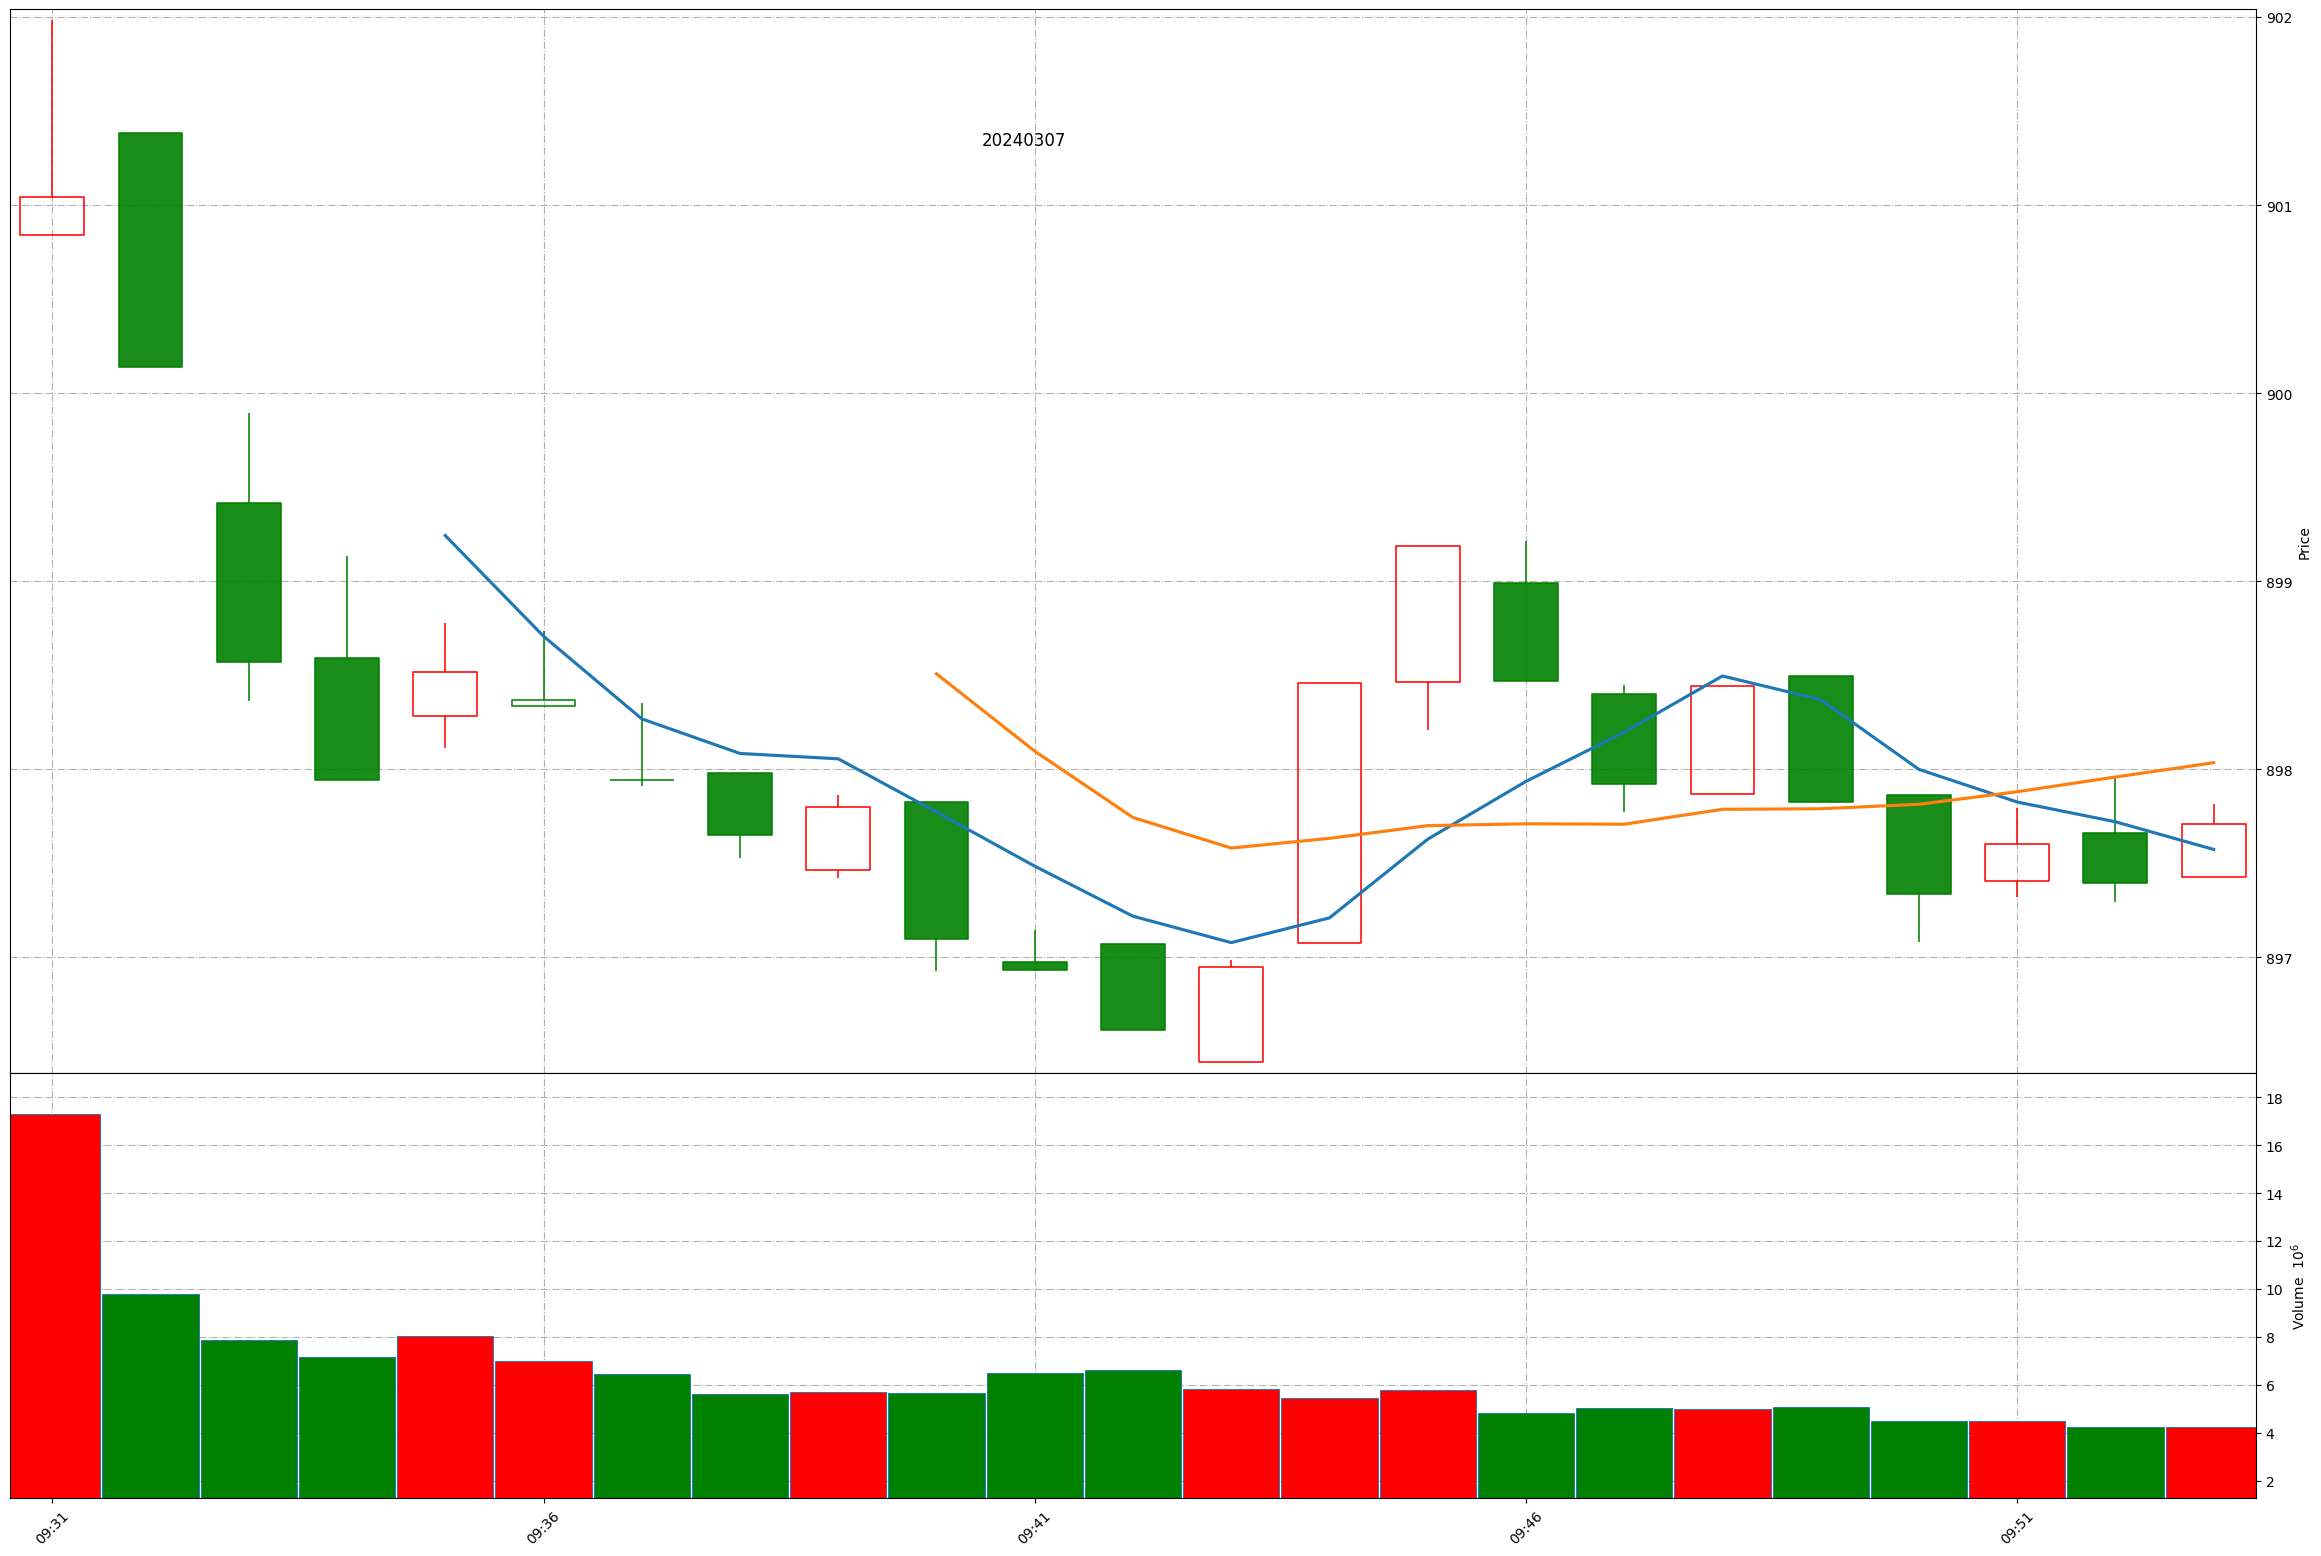
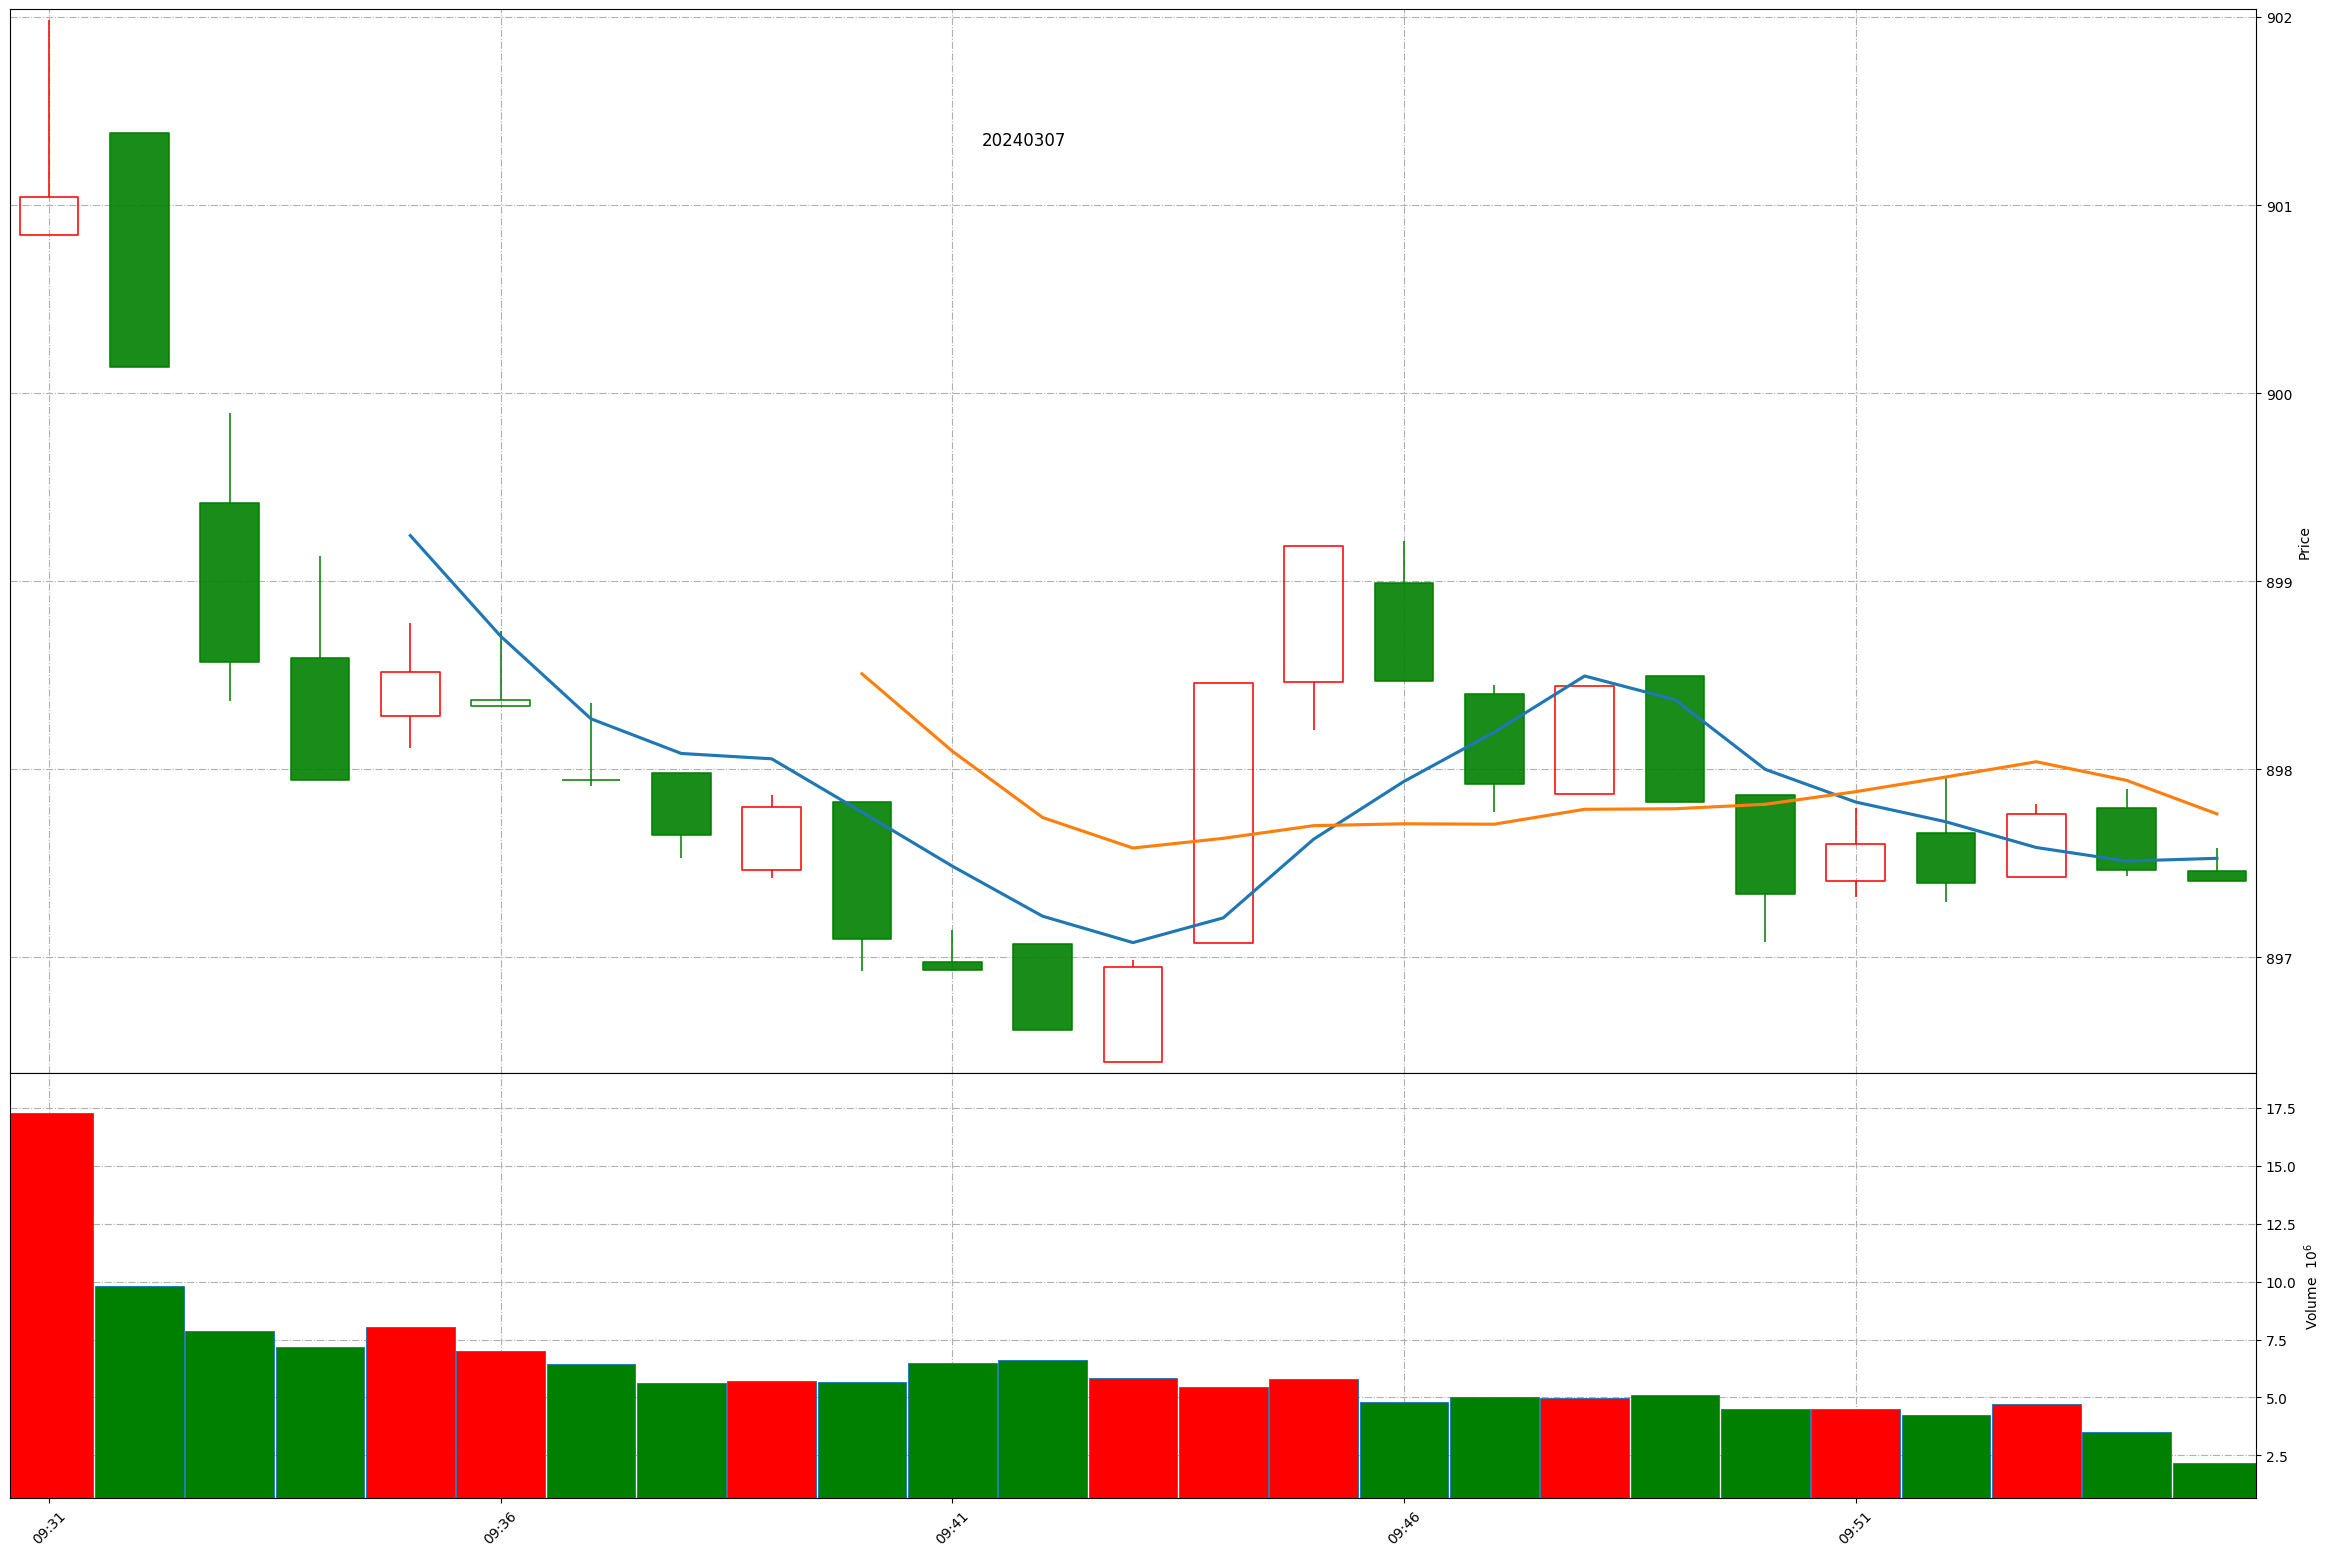
Github action update at 2024-03-07 09:54:51.

diff --git a/README.md b/README.md
@@ -1,11 +1,11 @@
 
 # Daily-A-share-market-quotes 每日 A 股指数（5min 更新）- 20240307
 
-### 上证指数 20240307 9:52
+### 上证指数 20240307 9:54
 ![](./fig/2024/3/20240307-sh000001.png)
 
-### 深证成指 20240307 9:52
+### 深证成指 20240307 9:54
 ![](./fig/2024/3/20240307-sz399001.png)
 
-### 北证50 20240307 9:52
+### 北证50 20240307 9:54
 ![](./fig/2024/3/20240307-bj899050.png)
